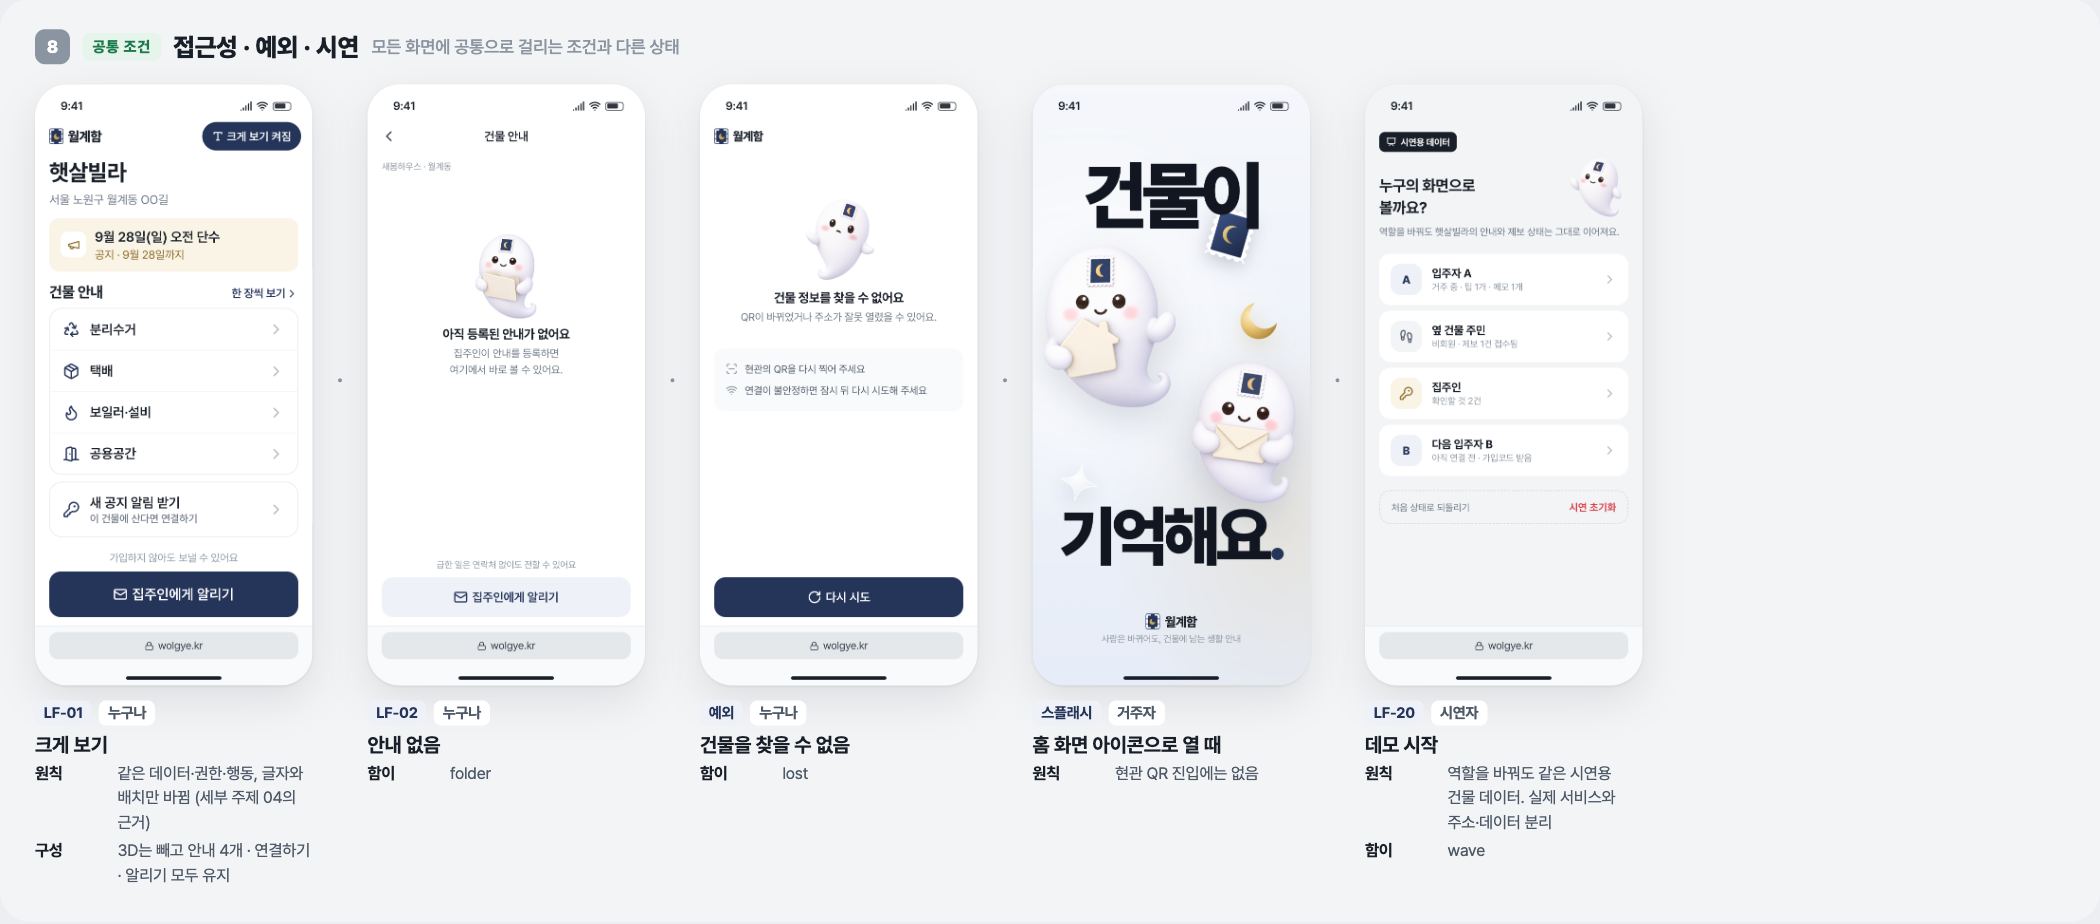
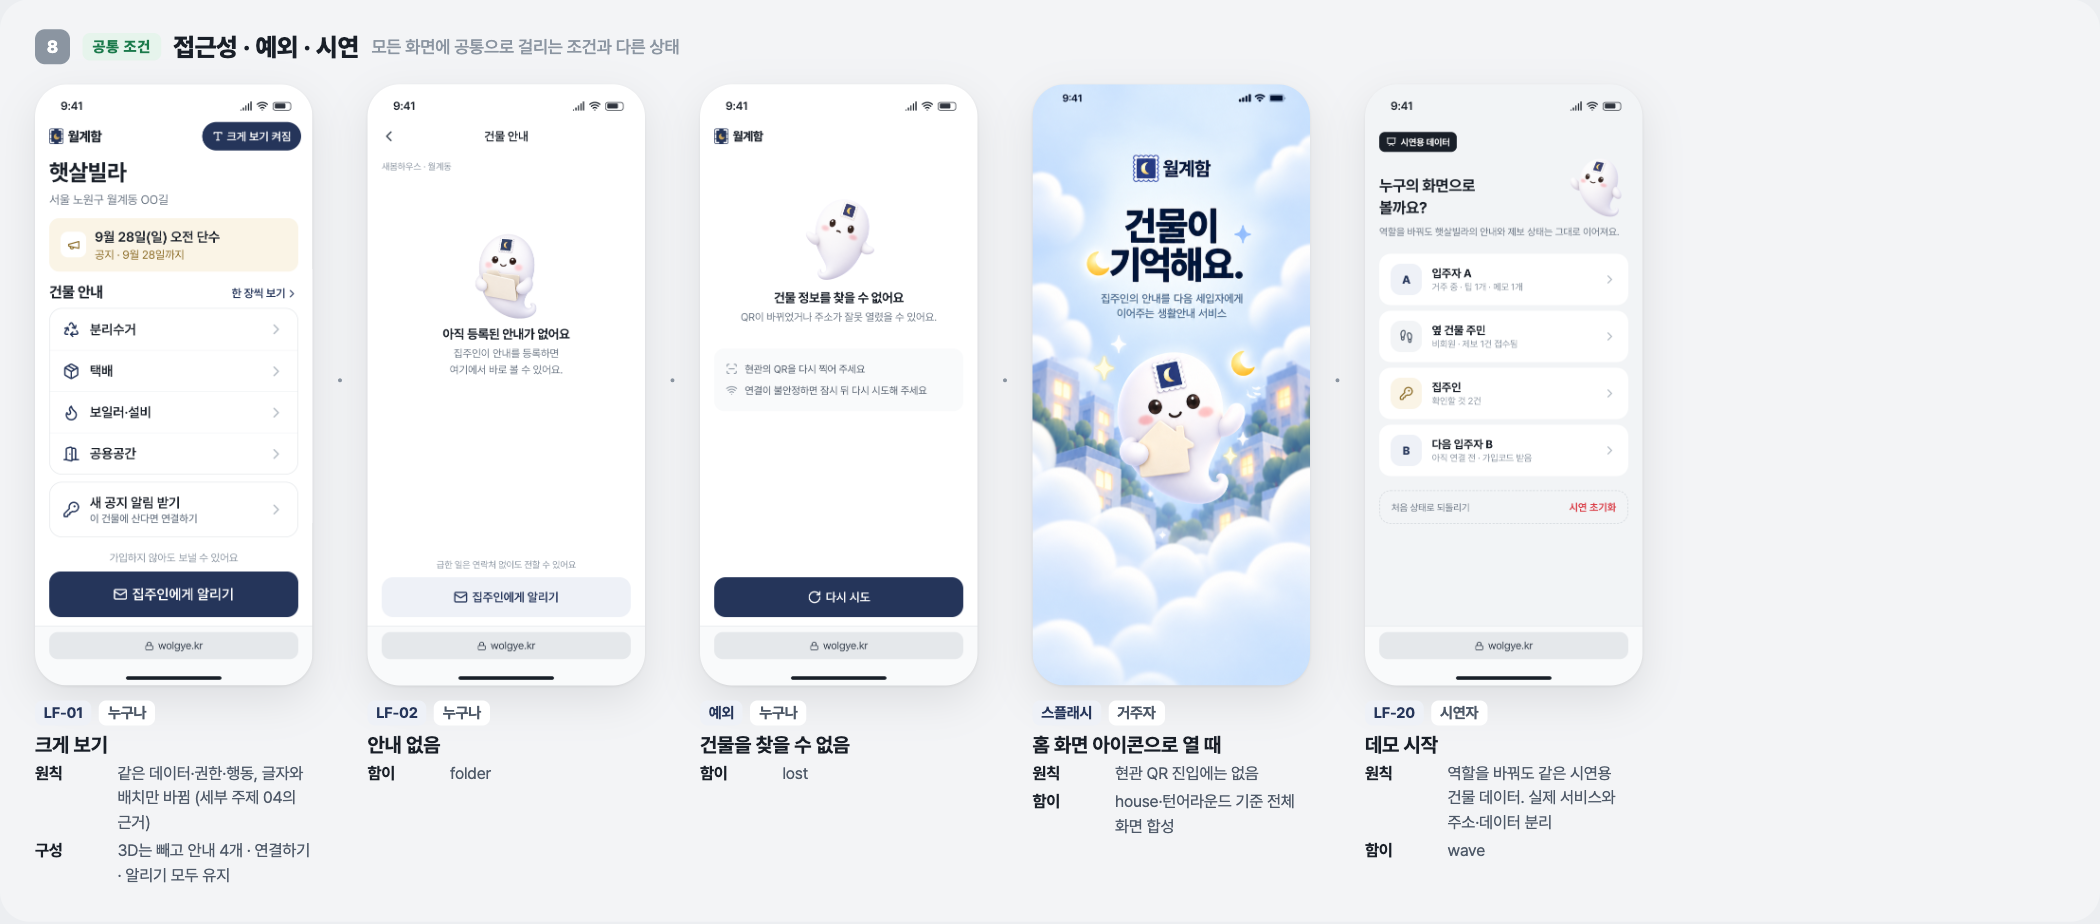
design(lofi): 정식 함이 스플래시로 00 화면 교체
사용자 스플래시 구도에 턴어라운드와 house 포즈를 매핑한 9:19.5 전체 화면 합성을 추가했습니다. 00 HTML, 화면 PNG, 공통 조건 흐름과 보드를 다시 내보내고 생성 프롬프트·자산 위치·화면 매핑을 문서화했습니다. HTML은 390×844, 원본과 출력 PNG는 1170×2532이며 design 원본과 lofi 사용본의 바이트 일치를 확인했습니다.

diff --git a/lofi/screens/00-splash.html b/lofi/screens/00-splash.html
@@ -6,80 +6,18 @@
 <title>스플래시 · 앱 첫 1초</title>
 <link rel="stylesheet" href="../src/lofi.css" />
 <style>
-  .phone {
-    background:
-      radial-gradient(120% 60% at 20% 40%, rgba(255,255,255,.9), rgba(255,255,255,0) 60%),
-      radial-gradient(90% 50% at 90% 75%, rgba(201,164,92,.16), rgba(201,164,92,0) 70%),
-      linear-gradient(180deg, #f5f7fb 0%, #e7edf8 100%);
-  }
-  .word { position: absolute; left: 0; right: 0; text-align: center; font-weight: 900; color: #111621; letter-spacing: -0.07em; line-height: 1; z-index: 5; }
-  .word.top { top: 104px; font-size: 104px; }
-  .word.bottom { top: 588px; font-size: 92px; }
-  .word.bottom em { font-style: normal; color: var(--navy-600); }
-
-  .float { position: absolute; z-index: 3; filter: drop-shadow(0 18px 24px rgba(28,41,69,.16)); }
-  .h1 { width: 300px; left: -46px; top: 196px; transform: rotate(-9deg); z-index: 4; }
-  .h2 { width: 270px; right: -44px; top: 356px; transform: rotate(8deg); z-index: 6; }
-
-  .deco { position: absolute; z-index: 2; }
-  .moon { width: 64px; right: 40px; top: 300px; transform: rotate(-18deg); filter: drop-shadow(0 10px 14px rgba(160,120,40,.25)); }
-  .star { width: 58px; left: 36px; top: 530px; transform: rotate(12deg); filter: drop-shadow(0 10px 14px rgba(28,41,69,.14)); z-index: 7; }
-  .stamp { width: 58px; left: 250px; top: 176px; transform: rotate(16deg); filter: drop-shadow(0 8px 12px rgba(28,41,69,.22)); }
-
-  .brand-foot { position: absolute; left: 0; right: 0; bottom: 58px; display: flex; flex-direction: column; align-items: center; gap: 6px; z-index: 5; }
-  .brand-foot .b { display: flex; align-items: center; gap: 7px; font-size: 18px; font-weight: 800; letter-spacing: -0.03em; color: var(--gray-900); }
-  .brand-foot .b .st { width: 20px; height: 22px; border-radius: 3px; background: var(--navy-600); display: grid; place-items: center; outline: 2px dashed #fff; outline-offset: -3px; }
-  .brand-foot .b .st svg { width: 11px; height: 11px; color: var(--moon); fill: var(--moon); stroke: none; }
-  .brand-foot .s { font-size: 13px; color: var(--gray-500); }
-
-  @media (prefers-reduced-motion: no-preference) {
-    .h1 { animation: bob 3.2s ease-in-out infinite; }
-    .h2 { animation: bob 3.2s ease-in-out -1.6s infinite; }
-    @keyframes bob { 50% { translate: 0 -8px; } }
-  }
+  .phone { background: #dcecff; }
+  .splash-art { width: 100%; height: 100%; object-fit: cover; }
 </style>
 </head>
 <body>
-<div class="phone" data-safari="off">
-  <div class="word top">건물이</div>
-
-  <svg class="deco stamp" viewBox="0 0 60 72" aria-hidden="true">
-    <defs><mask id="scal"><rect width="60" height="72" fill="#fff"/>
-      <g fill="#000">
-        <circle cx="0" cy="6" r="3.2"/><circle cx="0" cy="18" r="3.2"/><circle cx="0" cy="30" r="3.2"/><circle cx="0" cy="42" r="3.2"/><circle cx="0" cy="54" r="3.2"/><circle cx="0" cy="66" r="3.2"/>
-        <circle cx="60" cy="6" r="3.2"/><circle cx="60" cy="18" r="3.2"/><circle cx="60" cy="30" r="3.2"/><circle cx="60" cy="42" r="3.2"/><circle cx="60" cy="54" r="3.2"/><circle cx="60" cy="66" r="3.2"/>
-        <circle cx="6" cy="0" r="3.2"/><circle cx="18" cy="0" r="3.2"/><circle cx="30" cy="0" r="3.2"/><circle cx="42" cy="0" r="3.2"/><circle cx="54" cy="0" r="3.2"/>
-        <circle cx="6" cy="72" r="3.2"/><circle cx="18" cy="72" r="3.2"/><circle cx="30" cy="72" r="3.2"/><circle cx="42" cy="72" r="3.2"/><circle cx="54" cy="72" r="3.2"/>
-      </g></mask>
-      <linearGradient id="nv" x1="0" y1="0" x2="1" y2="1"><stop offset="0" stop-color="#3d5286"/><stop offset="1" stop-color="#1c2945"/></linearGradient>
-      <linearGradient id="gd" x1="0" y1="0" x2="1" y2="1"><stop offset="0" stop-color="#f3dc9b"/><stop offset="1" stop-color="#b8903f"/></linearGradient>
-    </defs>
-    <g mask="url(#scal)"><rect width="60" height="72" rx="2" fill="#fff"/><rect x="7" y="7" width="46" height="58" rx="2" fill="url(#nv)"/></g>
-    <path d="M36 24a13 13 0 1 0 0 24a10 10 0 1 1 0-24z" fill="url(#gd)"/>
-  </svg>
-
-  <svg class="deco moon" viewBox="0 0 80 80" aria-hidden="true">
-    <defs><radialGradient id="mg" cx=".35" cy=".3" r=".8"><stop offset="0" stop-color="#fff3cf"/><stop offset=".45" stop-color="#e7c574"/><stop offset="1" stop-color="#a97f30"/></radialGradient></defs>
-    <mask id="cres"><rect width="80" height="80" fill="#fff"/><circle cx="54" cy="32" r="26" fill="#000"/></mask>
-    <circle cx="40" cy="40" r="32" fill="url(#mg)" mask="url(#cres)"/>
-  </svg>
-
-  <img class="float h1" src="../assets/hami/house.png" alt="" />
-  <img class="float h2" src="../assets/hami/envelope.png" alt="" />
-
-  <svg class="deco star" viewBox="0 0 80 80" aria-hidden="true">
-    <defs><radialGradient id="sg" cx=".4" cy=".35" r=".75"><stop offset="0" stop-color="#ffffff"/><stop offset=".6" stop-color="#eef1f7"/><stop offset="1" stop-color="#c9d1e3"/></radialGradient></defs>
-    <path d="M40 4c3 20 8 29 36 36c-28 7-33 16-36 36c-3-20-8-29-36-36c28-7 33-16 36-36z" fill="url(#sg)" stroke="#ffffff" stroke-width="1.5" stroke-linejoin="round"/>
-  </svg>
-
-  <div class="word bottom">기억해요<em>.</em></div>
-
-  <div class="brand-foot">
-    <div class="b"><span class="st"><i data-lucide="moon"></i></span>월계함</div>
-    <div class="s">사람은 바뀌어도, 건물에 남는 생활 안내</div>
-  </div>
+<div class="phone">
+  <img
+    class="splash-art"
+    src="../assets/splash/00-splash-art.png"
+    alt="월계함. 건물이 기억해요. 집주인의 안내를 다음 세입자에게 이어주는 생활안내 서비스"
+  />
 </div>
-<script src="https://cdn.jsdelivr.net/npm/lucide@0.469.0/dist/umd/lucide.min.js"></script>
-<script src="../src/chrome.js"></script>
+<script>document.documentElement.dataset.ready = "1";</script>
 </body>
 </html>

diff --git a/lofi/board.html b/lofi/board.html
@@ -288,14 +288,14 @@ const CHAPTERS = [
     A("alt", ""),
     C("22-building-not-found", "예외", "누구나", "건물을 찾을 수 없음", [["함이", "lost"]]),
     A("alt", ""),
-    C("00-splash", "스플래시", "거주자", "홈 화면 아이콘으로 열 때", [["원칙", "현관 QR 진입에는 없음"]]),
+    C("00-splash", "스플래시", "거주자", "홈 화면 아이콘으로 열 때", [["원칙", "현관 QR 진입에는 없음"], ["함이", "house·턴어라운드 기준 전체 화면 합성"]]),
     A("alt", ""),
     C("29-demo-start", "LF-20", "시연자", "데모 시작", [["원칙", "역할을 바꿔도 같은 시연용 건물 데이터. 실제 서비스와 주소·데이터 분리"], ["함이", "wave"]]),
   ]],
 ];
 
 const ASSETS = [
-  ["guide", "LF-01 첫 방문 · 처음 오셨나요(36·46)"], ["house", "B 연결 환영 · 거주 재확인(40) · 스플래시"], ["envelope", "LF-11 접수 · LF-10 받는 사람 · 스플래시"],
+  ["guide", "LF-01 첫 방문 · 처음 오셨나요(36·46)"], ["house", "B 연결 환영 · 거주 재확인(40)"], ["envelope", "LF-11 접수 · LF-10 받는 사람"],
   ["hami-mini", "팁 저장 토스트 등 40pt 이하"], ["moving", "LF-09 이사 완료"], ["tip-saved", "LF-02 메모 남긴 뒤"],
   ["tray-empty", "LF-06 생활 팁 없음"], ["folder", "LF-02 안내 없음"], ["bell", "연결 뒤 알림 선택 · 홈 화면 추가 안내"],
   ["clipboard", "LF-12 건물 확인"], ["qr-sign", "LF-18 QR과 입주 카드"], ["lost", "건물 없음 · 링크 만료"], ["wave", "LF-20 데모 시작"],

diff --git a/design/characters/hami/PROMPTS.md b/design/characters/hami/PROMPTS.md
@@ -118,6 +118,25 @@ Deliver a 1:1 square PNG with genuine transparent alpha background. Character an
 
 </details>
 
+### splash-screen
+
+출력: [스플래시 전체 화면](images/hami-splash-screen.png)
+참조: 사용자 스플래시 구도 + `hami-turnaround-transparent.png` + `house.png`
+
+개별 포즈가 아니라 00 화면 전용 9:19.5 합성입니다. design의 파일이 원본이고, 로파이는 `lofi/assets/splash/00-splash-art.png`에 같은 바이트의 현재 사용본만 둡니다.
+
+```text
+Use case: precise-object-edit
+Asset type: mobile splash screen artwork for a 390×844 point (9:19.5) interface
+Input images: Image 1 is the exact edit target and composition reference. Image 2 is the canonical Hami identity/turnaround reference. Image 3 is the canonical Hami house pose and prop reference.
+Primary request: Rebuild Image 1 as a complete 9:19.5 vertical splash artwork. Preserve its soft sky-blue dreamy city-and-cloud composition, status bar, centered Wolgyeham brand, headline hierarchy, subtitle, moon and star accents. Replace only the central mascot with canonical Hami from Images 2 and 3.
+Subject: one canonical Hami, warm white rounded ghost-like body, short flipper arms, curled tail, dark rounded eyes, pale pink cheeks, navy scalloped forehead stamp with gold crescent on the front, holding the same cream house-shaped card from Image 3 and waving gently. Full silhouette visible. Identity and proportions must match the references, not a generic ghost.
+Composition: exact 9:19.5 portrait. Keep safe margins for iPhone status bar. Brand near upper quarter, headline and subtitle above the mascot, mascot centered in the middle-lower area, cloud city behind it, generous cloud space at the bottom. Extend the original scene vertically rather than stretching it. No cropping of headline, mascot, tail, or house prop.
+Text (verbatim, Korean): "월계함"; "건물이 기억해요."; "집주인의 안내를 다음 세입자에게 이어주는 생활안내 서비스"; status time "9:41". Preserve correct Korean spelling exactly. No other text.
+Style: polished soft 3D clay illustration, airy pastel blue sky, diffused cloud edges, warm glowing windows, navy and moon-gold brand accents.
+Constraints: retain the exact overall visual idea of Image 1; use one Hami only; no envelope; canonical stamp shape and placement; no duplicated limbs; no watermark; no app buttons; no extra text.
+```
+
 ## 4. 확정 선택
 
 | 선택 | 파일 | 이유 |
@@ -126,14 +145,16 @@ Deliver a 1:1 square PNG with genuine transparent alpha background. Character an
 | 기존 유지 | envelope | 작은 화면에서 단순한 봉투가 더 명확함 |
 | 새 이미지 적용 | tip-saved, bell, clipboard, wave | 저장·선택·작성·환영 동작의 구분 |
 | 신규 추가 | hami-mini, tray-empty, qr-sign, lost | 작은 자리·빈 상태·QR 진입·예외 장면 |
+| 새 합성 적용 | hami-splash-screen | 정식 함이 외형을 반영한 00 전용 전체 화면 |
 | 미채택 | house-ask | 거주 재확인은 house를 함께 쓰기로 결정 |
 
 기존 유지 5종은 이번 새 프롬프트의 결과라고 표시하지 않습니다. 해당 이미지를 기준으로 유지하며, 이번에 생성했으나 선택하지 않은 후보의 요청은 보관하지 않습니다.
 
 ## 5. 검토와 전달
 
-- 13종 모두 1254×1254 RGBA PNG이며 실제 투명 픽셀이 있습니다. 전체 실루엣과 소품을 확인했습니다.
+- 개별 포즈 13종은 모두 1254×1254 RGBA PNG이며 실제 투명 픽셀이 있습니다. 전체 실루엣과 소품을 확인했습니다.
+- 스플래시 합성은 1170×2532 RGB PNG이며 390×844 HTML과 같은 9:19.5 비율입니다.
 - 흰색·연한 남색 카드 위에서 비교했고, mini는 24/40, tip-saved는 34 크기로 확인했습니다.
 - tip-saved와 tray-empty는 같은 남색 보관함을 공유합니다.
-- design 원본과 lofi/assets/hami 사본의 바이트 일치를 확인합니다. lofi에는 확정 파일 13장만 둡니다.
+- design 원본과 lofi/assets/hami 사본의 바이트 일치를 확인합니다. lofi에는 확정 포즈 13장만 둡니다. 스플래시는 design 원본과 `lofi/assets/splash`의 현재 사용본이 바이트가 같아야 합니다.
 - 파일명에 candidate를 남기지 않습니다. 13종의 화면 배치는 [README 4절](README.md#4-화면별-포즈)과 lofi/board.html의 ‘함이 에셋 배치’가 기준입니다.

diff --git a/design/characters/hami/README.md b/design/characters/hami/README.md
@@ -42,8 +42,9 @@ apps/web/src/assets/hami/
 | 파일 | 화면 | 이미지 폭 | 장면 |
 |---|---|---|---|
 | `guide.png` | LF-01 공개 첫 화면(01) · 처음 오셨나요(36·46) | 104 · 72 | 펼친 안내책을 든 기존 포즈 유지 |
-| `house.png` | LF-05 B 연결 직후(10) · LF-09 거주 재확인(40) · 스플래시(00) | 104 · 140 · 300 | 집 카드를 보여주며 반대 팔로 환영 |
-| `envelope.png` | LF-10 받는 사람 카드(05) · LF-11 접수(06) · 스플래시(00) | 80 · 100 · 270 | 봉한 봉투를 차분히 받침 |
+| `house.png` | LF-05 B 연결 직후(10) · LF-09 거주 재확인(40) | 104 · 140 | 집 카드를 보여주며 반대 팔로 환영 |
+| `envelope.png` | LF-10 받는 사람 카드(05) · LF-11 접수(06) | 80 · 100 | 봉한 봉투를 차분히 받침 |
+| `hami-splash-screen.png` | 스플래시(00) 전체 화면 합성 원본 | 1170×2532 | `house` 포즈와 턴어라운드 외형을 기준으로 만든 9:19.5 장면 |
 | `tip-saved.png` | LF-02 수정 메모를 남긴 뒤(13) | 150 | 큰 보관함으로 메모를 내려놓는 동작 |
 | `moving.png` | LF-09 이사 처리 완료(09) | 172 | 상자를 들고 손 흔드는 기존 포즈 유지 |
 | `hami-mini.png` | LF-06 팁 저장 토스트(04) 등 40pt 이하 | 40 | 우표·눈·볼이 읽히는 정면 상반신 |

diff --git a/lofi/screens.md b/lofi/screens.md
@@ -46,7 +46,7 @@
 | LF-18 | 입주 카드·QR·가입코드 / 집주인 | 입주 카드(QR 칸과 가입코드 칸 분리), QR 인쇄·코드 변경, 현관 안내문(A4 인쇄·이미지, lofi 없음) | 39, 26 | qr-sign(26) |
 | LF-19 | 콘텐츠 신고 검토 / 운영자 | 신고 검토, 가림·복원 | 아직 없음 | 없음 |
 | LF-20 | 데모 시작 / 시연자 | 역할 전환(둘러보기 전용), 운영자용 초기화. 실제 서비스와 주소·데이터 분리 | 29 | wave |
-| 보조 | 스플래시 / 거주자 | 홈 화면 아이콘으로 열 때 약 1초 | 00 | house·envelope |
+| 보조 | 스플래시 / 거주자 | 홈 화면 아이콘으로 열 때 약 1초 | 00 | house 기준 전체 화면 합성 |
 | 보조 | 처음 오셨나요 / 누구나 | 공개 화면(01)이나 연결 직후에 열고, 공개된 기본 안내 수만큼(지금 4장). 마지막 장에서 연결을 제안 | 36, 46 | guide |
 | 보조 | 건물 없음 / 누구나 | QR 건물을 찾지 못함, 다시 시도 | 22 | lost |
 

diff --git a/lofi/README.md b/lofi/README.md
@@ -19,6 +19,7 @@ lofi/
 │   ├── building.css        공개 화면과 거주자 홈이 공유하는 건물 헤더·공지·안내 타일·자주 쓰는 말·팁 카드
 │   └── chrome.js           상태바·Safari 하단 막대·탭바·키보드·3D 자리표시·QR 자리표시 자동 삽입
 ├── assets/hami/            design 원본과 같은 확정 함이 13종
+├── assets/splash/          00 화면에서 쓰는 9:19.5 스플래시 합성 사본
 ├── scripts/export.py       PNG 내보내기
 └── out/                    생성물 (export.py가 만듦)
     ├── screens/NN-*.png    화면 1170×2532
